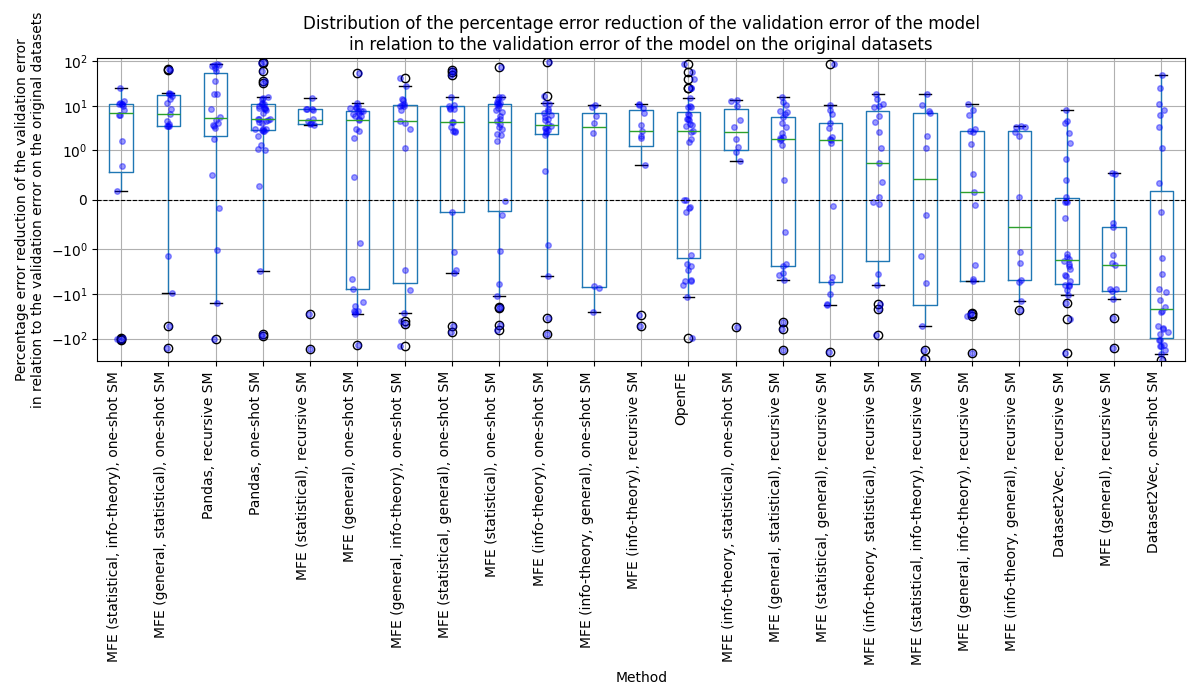
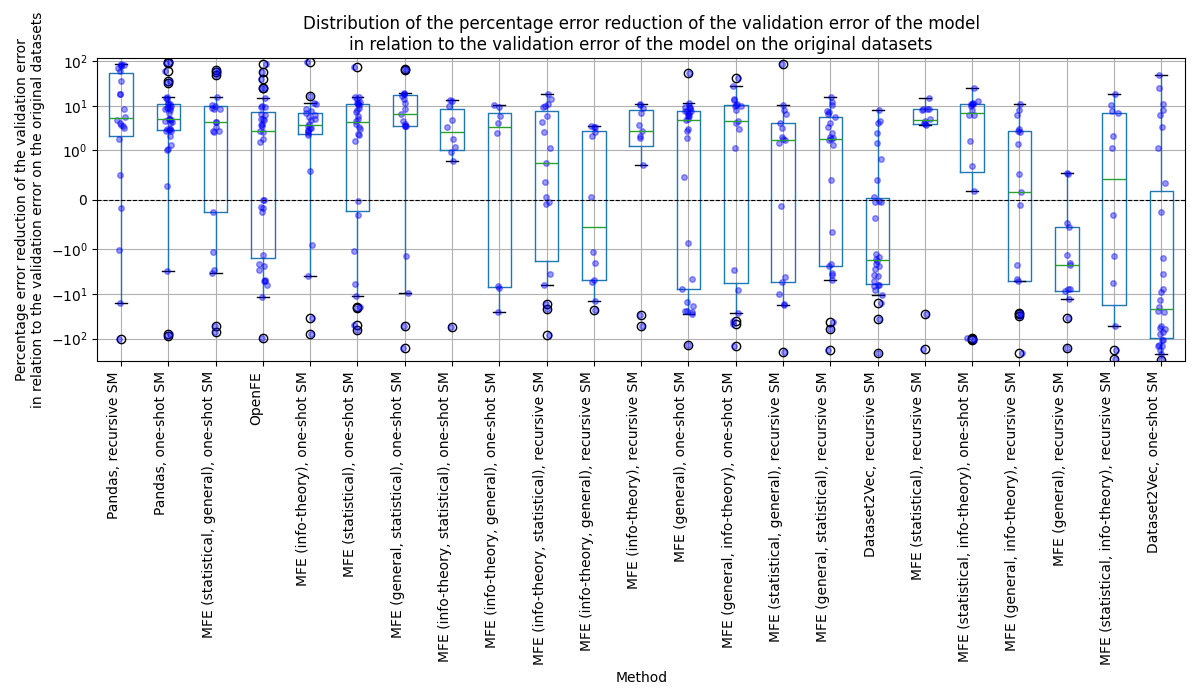
Sort boxplot by mean instead of median

diff --git a/src/Result_Analysis/test_analysis/test_analysis.py b/src/Result_Analysis/test_analysis/test_analysis.py
@@ -414,7 +414,7 @@ def plot_boxplot_percentage_impr(baseline_col, df_pivot, name):
         improvement_test[method] = improvement
 
     # Sort methods by mean improvement (descending)
-    method_order = improvement_test.median().sort_values(ascending=False).index.tolist()
+    method_order = improvement_test.mean().sort_values(ascending=False).index.tolist()
     improvement_test = improvement_test[method_order]
 
     # Plot
